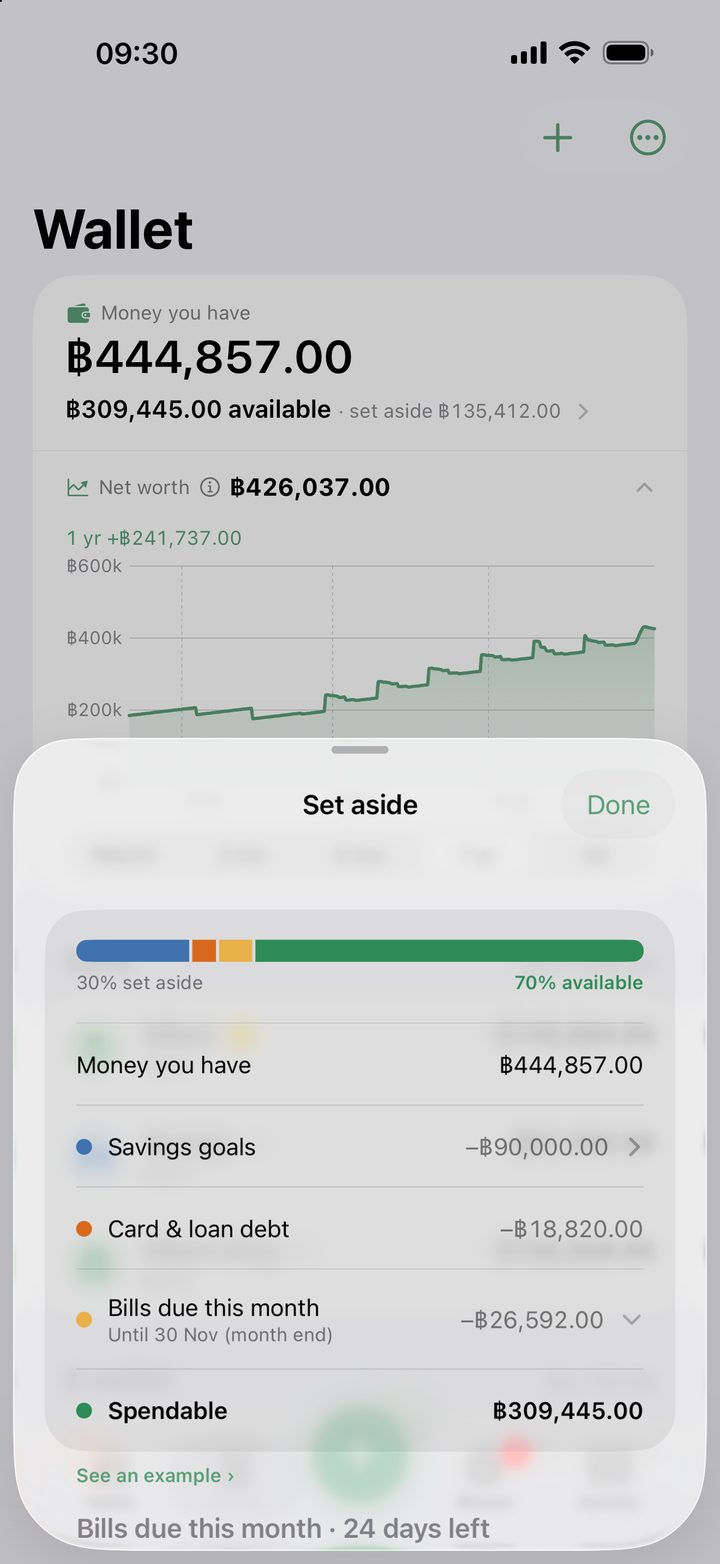
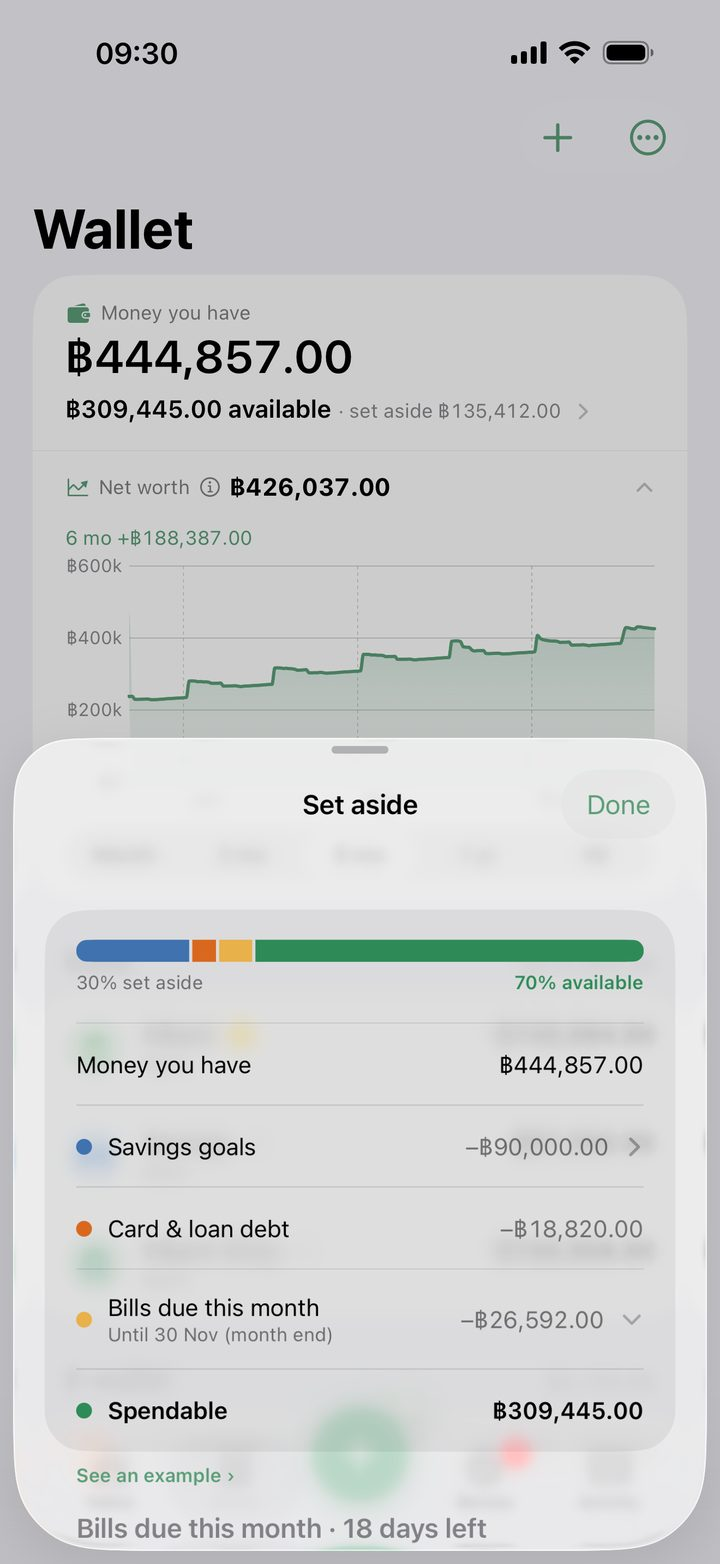
landing อังกฤษ: ภาพจออังกฤษตรงชุดไทย (กระเป๋า 6 เดือน · งบ · บัตร · หน้าหลักโล่ง · จะจ่าย?)

Changed region(s): [[0.1833, 0.399, 0.8861, 0.4604], [0.0917, 0.3376, 0.3361, 0.3683], [0.4889, 0.9514, 0.6722, 0.9821]]

diff --git a/en/index.html b/en/index.html
@@ -488,7 +488,7 @@ footer a:hover{color:var(--ink)}
     </div>
     <div class="shot">
       <div class="phone" style="translate: -65px -1px;"><div class="seq" id="qSeq" role="img" aria-label="Tap the square button to open the shortcut menu, tap the pencil to add your own buttons">
-        <img src="../landing/th-home2.jpg" alt="" data-step="0"><img src="../landing/en-qmenu5.jpg" alt="" data-step="1"><img src="../landing/en-qedit.jpg" alt="" data-step="2"><img class="on" src="../landing/en-qmenu.jpg" alt="" data-step="3">
+        <img src="../landing/en-home2.jpg" alt="" data-step="0"><img src="../landing/en-qmenu5.jpg" alt="" data-step="1"><img src="../landing/en-qedit.jpg" alt="" data-step="2"><img class="on" src="../landing/en-qmenu.jpg" alt="" data-step="3">
         <span class="tap" id="qTap"></span></div></div>
       <div class="phone second" style="translate: 81px -56px;"><img src="../landing/en-inbox.jpg" alt="Review tab with entries waiting to be confirmed" loading="lazy"></div>
       <div class="float" style="width: 250px; left: -10%; bottom: -40px; border-radius: 26px; translate: 563px -95px; scale: 0.4;"><img src="../landing/fl-notif.jpg" alt="Type an entry from a Lock Screen notification: amount, category, then into Review" loading="lazy"></div>
@@ -543,7 +543,7 @@ footer a:hover{color:var(--ink)}
       </ul>
     </div>
     <div class="shot">
-      <div class="phone" style="translate: -73px 1px;"><img src="../landing/th-budgets.jpg" alt="Budgets: overall and by category" loading="lazy"></div>
+      <div class="phone" style="translate: -73px 1px;"><img src="../landing/en-budgets.jpg" alt="Budgets: overall and by category" loading="lazy"></div>
       <div class="float" style="right: -4%; top: 12%; translate: 4px -27px;"><img src="../landing/fl-en-monthcard.jpg" alt="This month card on Home with what&#x27;s left today" loading="lazy"></div>
     </div>
   </div>
@@ -565,7 +565,7 @@ footer a:hover{color:var(--ink)}
     <div class="shot">
       <div class="phone" style="translate: 40px 2px;"><img src="../landing/en-obcal.jpg" alt="Calendar of payments due" loading="lazy"></div>
       <div class="phone second" style="translate: 166px 5px;"><img src="../landing/en-ob.jpg" alt="List of payments due this month" loading="lazy"></div>
-      <div class="phone third"><img src="../landing/th-card.jpg" alt="Credit card page with the statement cycle and Pay bill button" loading="lazy"></div>
+      <div class="phone third"><img src="../landing/en-card.jpg" alt="Credit card page with the statement cycle and Pay bill button" loading="lazy"></div>
     </div>
   </div>
 </section>
@@ -585,7 +585,7 @@ footer a:hover{color:var(--ink)}
     </div>
     <div class="shot">
       <div class="phone" style="translate: -180px -2px;"><img src="../landing/en-bestcard.jpg" alt="Entry screen with the suggested card" loading="lazy"></div>
-      <div class="float" style="right: -6%; top: 18%; translate: -8px -66px;"><img src="../landing/fl-paycard.jpg" alt="&quot;Paying?&quot; card on Home showing the best card" loading="lazy"></div>
+      <div class="float" style="right: -6%; top: 18%; translate: -8px -66px;"><img src="../landing/fl-en-paycard.jpg" alt="&quot;Paying?&quot; card on Home showing the best card" loading="lazy"></div>
     </div>
   </div>
 </section>
